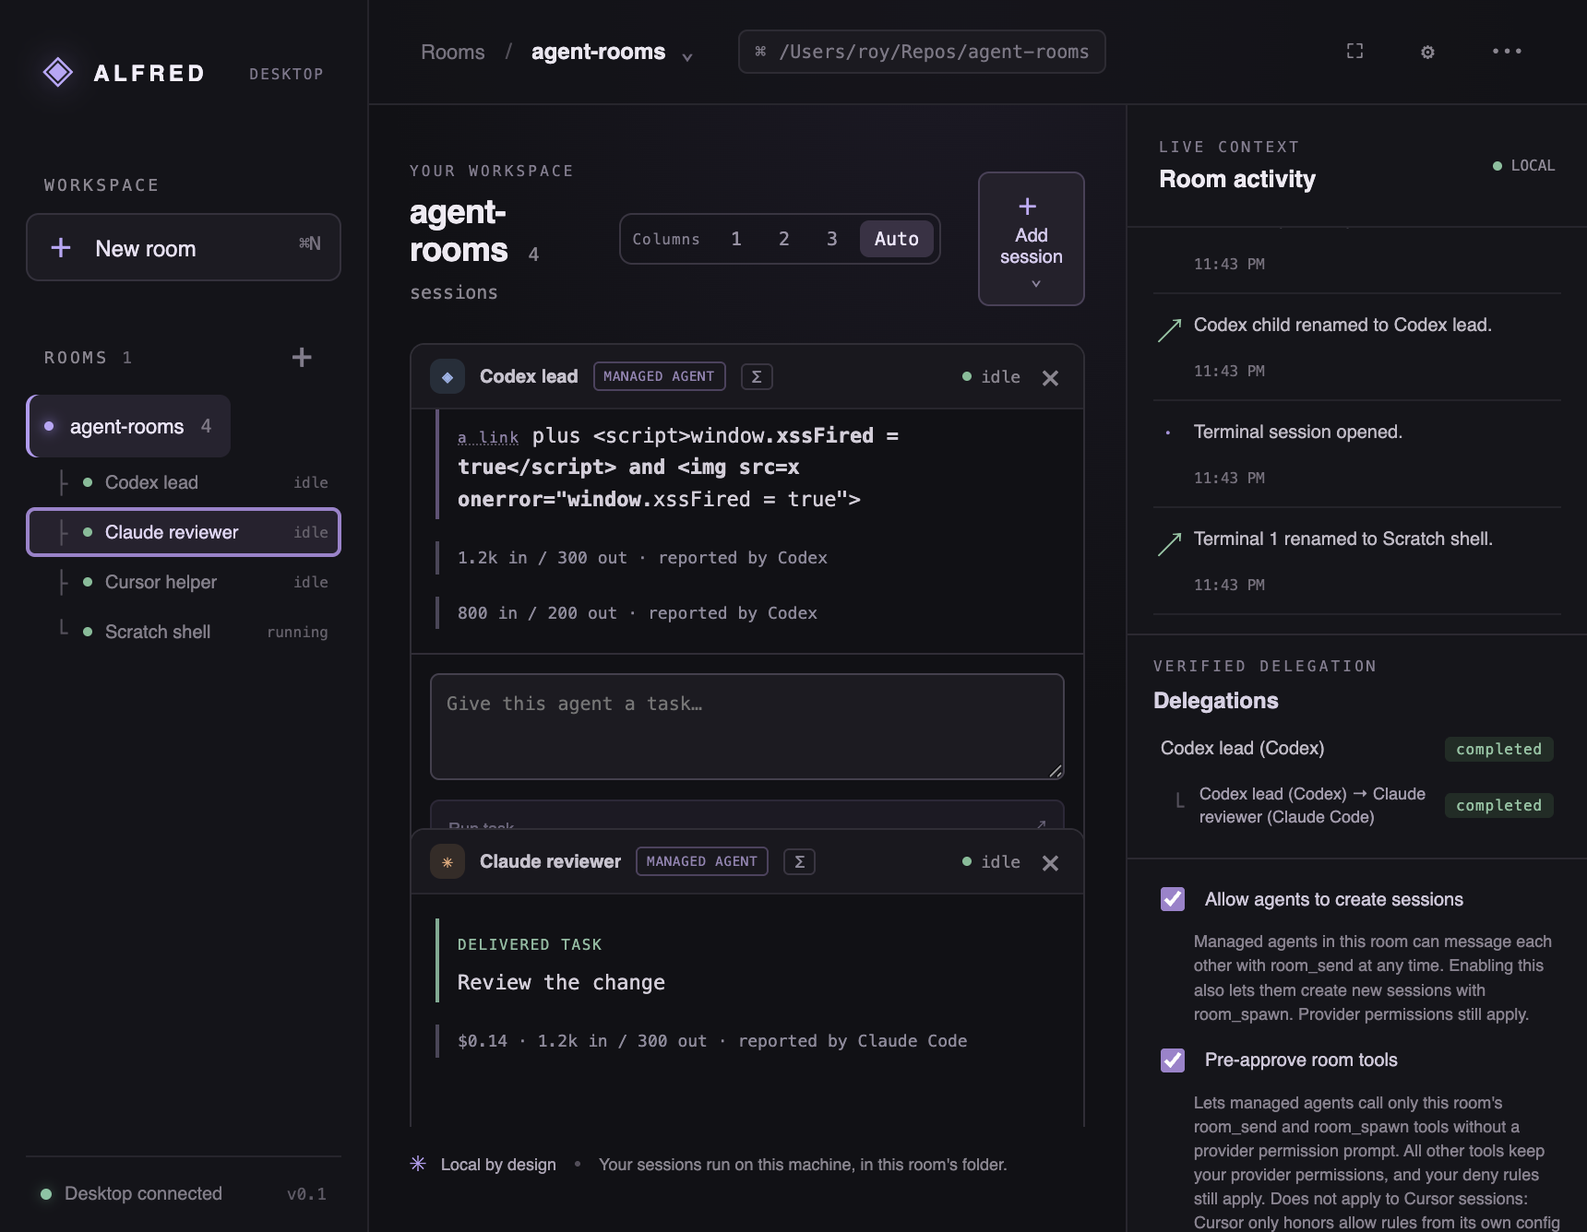
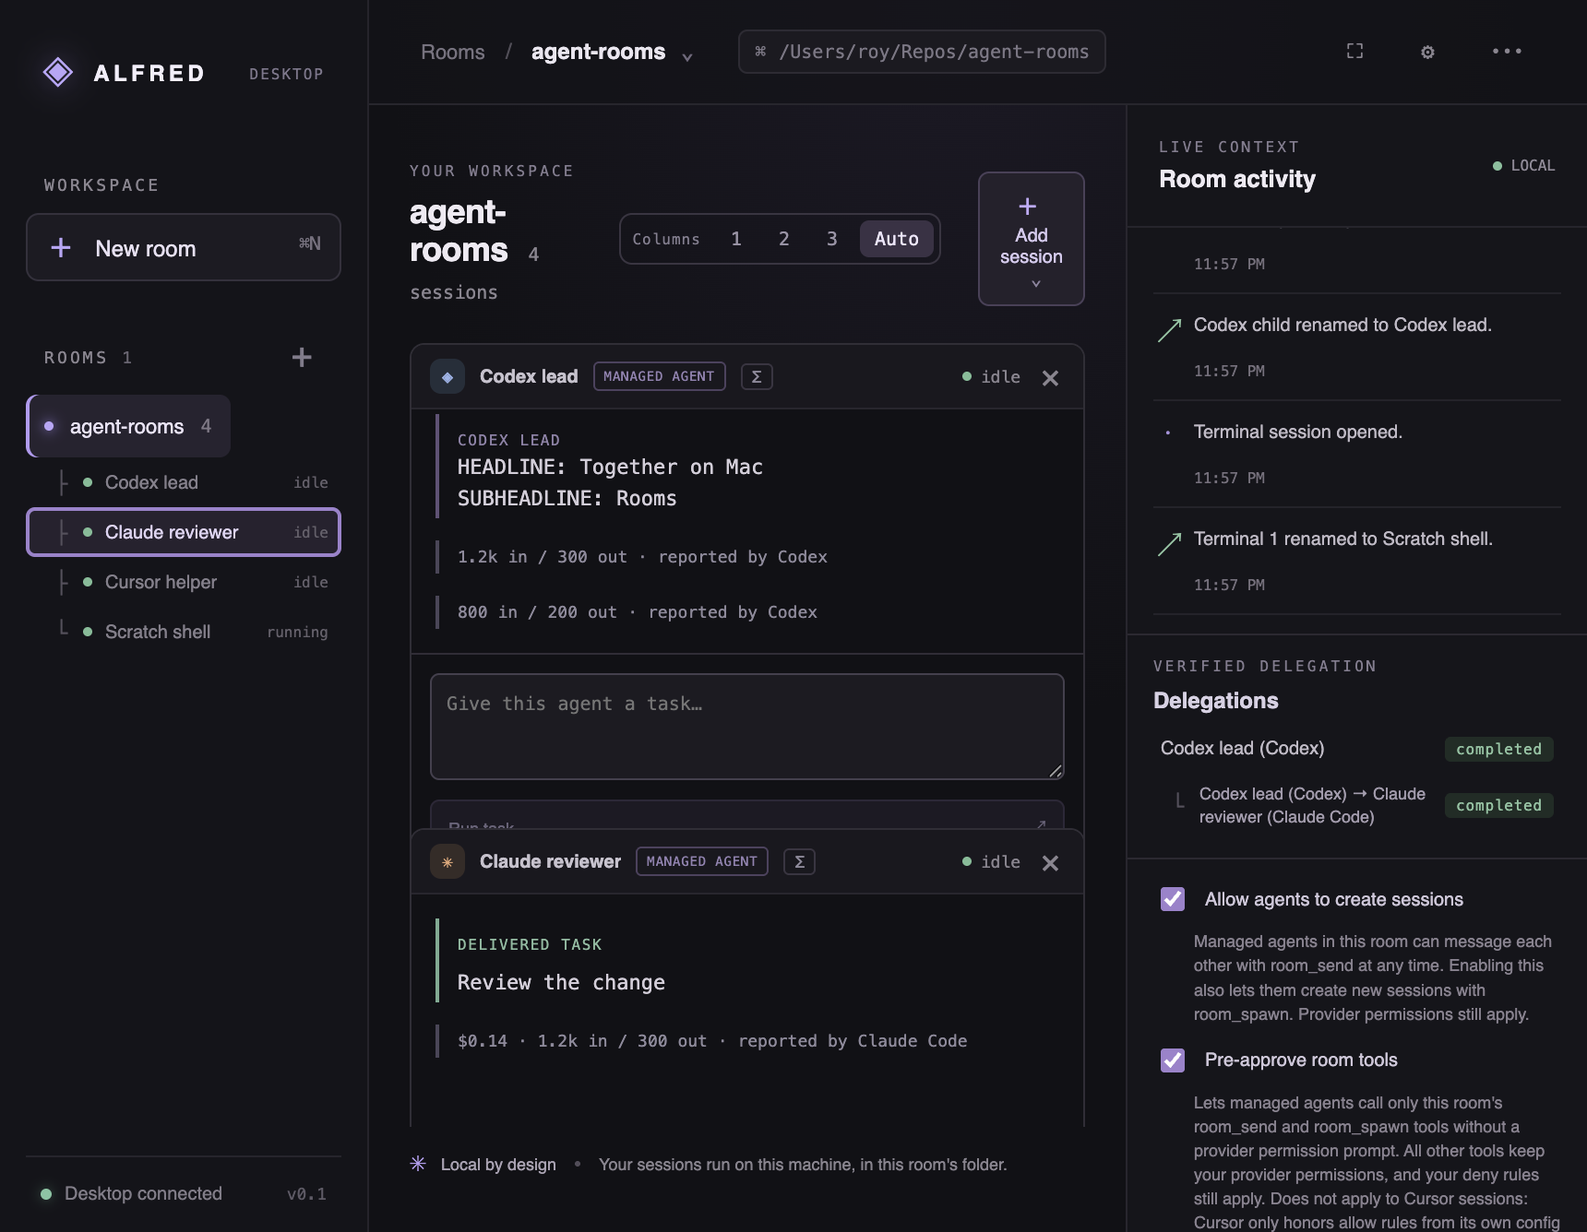
Fix issues found in final 2x Claude + 2x Cursor end-to-end build
- Markdown: keep ordered-list numbering with nested bullets; don't italicize
  intra-word underscores (room_send)
- Room Activity: keep newline-only streamed chunks
- Auto columns balance rows (4 panes -> 2x2)
- Record final e2e evidence: 3 verified room_send delegations, site built
  in one room, usage, findings (global CLAUDE.md applies to managed agents,
  sequential tool calls within one Claude turn)

Claude-Session: https://claude.ai/code/session_01BGuwhLi6mJrKy1dvGjUKGi

Changed region(s): [[0.2773, 0.3376, 0.5547, 0.4603]]

diff --git a/src/App.tsx b/src/App.tsx
@@ -530,6 +530,18 @@ function computePaneGrid(sessions: Session[], columns: number) {
 // is what actually gets rendered — the room's `columns` setting is only ever
 // a ceiling, never a promise, so a narrow window degrades to fewer columns
 // instead of ever overlapping panes.
+// Auto layout: the CSS auto-fit grid alone leaves an orphan row (4 panes at a
+// width that fits 3 render as 3 + 1 with a large empty area). Pick the number
+// of columns that fits (same 290px minimum and 13px gap as .terminal-stack),
+// then balance rows so every row is as full as possible: 4 -> 2x2, 5 -> 3+2.
+const AUTO_PANE_MIN_PX = 290;
+const AUTO_PANE_GAP_PX = 13;
+export function balancedAutoColumns(containerWidth: number, panes: number): number {
+  if (containerWidth <= 0 || panes <= 0) return 0;
+  const fit = Math.max(1, Math.floor((containerWidth + AUTO_PANE_GAP_PX) / (AUTO_PANE_MIN_PX + AUTO_PANE_GAP_PX)));
+  const cols = Math.min(fit, panes);
+  return Math.ceil(panes / Math.ceil(panes / cols));
+}
 function maxFittingColumns(containerWidth: number, columns: number): number {
   if (containerWidth <= 0) return columns;
   for (let n = columns; n > 1; n--) {
@@ -546,7 +558,14 @@ type MdBlock =
   | { type: 'heading'; level: number; text: string }
   | { type: 'paragraph'; text: string }
   | { type: 'code'; text: string }
-  | { type: 'list'; ordered: boolean; items: string[] };
+  | { type: 'list'; ordered: boolean; start: number; items: MdListItem[] };
+// One level of nesting: an item indented deeper than its list's first item (for
+// example "   - **Problem:** …" under "5. **Finding**") belongs to the previous
+// item as a sub-list, instead of becoming a sibling that inherits the parent's
+// numbering.
+type MdListItem = { text: string; sub?: { ordered: boolean; start: number; items: string[] } };
+const mdListLine = /^(\s*)([-*]|\d+[.)])\s+(.*)$/;
+const mdListStart = (marker: string) => (/^\d/.test(marker) ? parseInt(marker, 10) : 1);
 function parseMarkdownBlocks(text: string): MdBlock[] {
   const lines = text.split(/\r\n|\r|\n/);
   const blocks: MdBlock[] = [];
@@ -582,19 +601,28 @@ function parseMarkdownBlocks(text: string): MdBlock[] {
       i++;
       continue;
     }
-    const listItem = line.match(/^\s*([-*]|\d+[.)])\s+(.*)$/);
+    const listItem = line.match(mdListLine);
     if (listItem) {
       flushPara();
-      const ordered = /\d/.test(listItem[1]);
-      const items = [listItem[2]];
+      const indent = listItem[1].length;
+      const ordered = /\d/.test(listItem[2]);
+      const items: MdListItem[] = [{ text: listItem[3] }];
       i++;
       while (i < lines.length) {
-        const m = lines[i].match(/^\s*([-*]|\d+[.)])\s+(.*)$/);
+        const m = lines[i].match(mdListLine);
         if (!m) break;
-        items.push(m[2]);
+        const itemOrdered = /\d/.test(m[2]);
+        if (m[1].length > indent) {
+          const parent = items[items.length - 1];
+          if (!parent.sub) parent.sub = { ordered: itemOrdered, start: mdListStart(m[2]), items: [] };
+          parent.sub.items.push(m[3]);
+        } else if (itemOrdered === ordered) items.push({ text: m[3] });
+        else break;
         i++;
       }
-      blocks.push({ type: 'list', ordered, items });
+      // `start` keeps numbering right when a model separates "5." and "6." with blank
+      // lines or nested bullets (each run is its own list).
+      blocks.push({ type: 'list', ordered, start: mdListStart(listItem[2]), items });
       continue;
     }
     if (line.trim() === '') {
@@ -609,7 +637,9 @@ function parseMarkdownBlocks(text: string): MdBlock[] {
   return blocks;
 }
 const mdInlineRegex =
-  /`([^`\n]+)`|\*\*([^*\n]+)\*\*|__([^_\n]+)__|\*([^*\n]+)\*|_([^_\n]+)_|\[([^\]\n]+)\]\(([^)\s]+)\)/g;
+  // Underscore emphasis only at word boundaries (as in CommonMark): identifiers such as
+  // room_send or snake_case_name must never turn into italics.
+  /`([^`\n]+)`|\*\*([^*\n]+)\*\*|(?<![\p{L}\p{N}_])__([^_\n]+)__(?![\p{L}\p{N}_])|\*([^*\n]+)\*|(?<![\p{L}\p{N}_])_([^_\n]+)_(?![\p{L}\p{N}_])|\[([^\]\n]+)\]\(([^)\s]+)\)/gu;
 function renderMarkdownInline(text: string, keyPrefix: string) {
   const nodes: (string | JSX.Element)[] = [];
   mdInlineRegex.lastIndex = 0;
@@ -658,11 +688,27 @@ function MarkdownText({ text }: { text: string }) {
             </pre>
           );
         if (block.type === 'list') {
-          const items = block.items.map((item, j) => (
-            <li key={key + '-' + j}>{renderMarkdownInline(item, key + '-' + j)}</li>
-          ));
+          const items = block.items.map((item, j) => {
+            const itemKey = key + '-' + j;
+            const subItems = item.sub?.items.map((sub, k) => (
+              <li key={itemKey + '-' + k}>{renderMarkdownInline(sub, itemKey + '-' + k)}</li>
+            ));
+            return (
+              <li key={itemKey}>
+                {renderMarkdownInline(item.text, itemKey)}
+                {item.sub &&
+                  (item.sub.ordered ? (
+                    <ol className="md-list md-sublist" start={item.sub.start}>
+                      {subItems}
+                    </ol>
+                  ) : (
+                    <ul className="md-list md-sublist">{subItems}</ul>
+                  ))}
+              </li>
+            );
+          });
           return block.ordered ? (
-            <ol className="md-list" key={key}>
+            <ol className="md-list" key={key} start={block.start}>
               {items}
             </ol>
           ) : (
@@ -1406,11 +1452,14 @@ export default function App() {
   );
   const appendOutputActivity = useCallback((event: AgentEvent, name: string) => {
     const output = event.text;
-    if (!output?.trim()) return;
+    if (!output) return;
     const key = event.sessionId + ':' + event.taskId;
     setActivityByRoom((prev) => {
       const existing = prev[event.roomId] || [];
       const last = existing.at(-1);
+      // A whitespace-only chunk (providers often stream a lone "\n") still separates the
+      // words around it; it only must not start a new activity item on its own.
+      if (!output.trim() && last?.streamKey !== key) return prev;
       if (last?.streamKey === key)
         return {
           ...prev,
@@ -2554,6 +2603,8 @@ export default function App() {
     !focusMode && current && current.columns !== 'auto'
       ? maxFittingColumns(stackWidth, current.columns)
       : null;
+  const autoColumns =
+    current && !effectiveColumns ? balancedAutoColumns(stackWidth, current.sessions.length) : 0;
   const currentPaneGrid =
     current && effectiveColumns ? computePaneGrid(current.sessions, effectiveColumns) : null;
   const effectiveColumnWeights =
@@ -2988,7 +3039,9 @@ export default function App() {
                               effectiveColumns,
                             ),
                           }
-                        : {}),
+                        : autoColumns
+                          ? { gridTemplateColumns: `repeat(${autoColumns}, minmax(0, 1fr))` }
+                          : {}),
                     }}
                   >
                     {rooms.flatMap((room) =>

diff --git a/src/styles.css b/src/styles.css
@@ -1534,6 +1534,9 @@ button {
   margin: 2px 0;
   overflow-wrap: anywhere;
 }
+.md-sublist {
+  margin: 2px 0 4px;
+}
 .md-code {
   background: #221f29;
   border: 1px solid #3a3542;

diff --git a/doc/adapters.md b/doc/adapters.md
@@ -149,3 +149,47 @@ The owner authorized a visible end-to-end run in the real Alfred app, with a bud
   - Tests: a Claude runner unit test, an updated Cursor delta expectation, and managed smoke assertions for no truncation, feed pinned to bottom, feed height ≥ 200px at 860×700, and no blank gap after a warning.
 - **Not addressed.** Agent output is shown as plain text, so Markdown such as `**…**` appears literally. The result text from Cursor still concatenates segments; it is passed through unchanged.
 - **Model turns used.** Claude: 3 tasks, one per run. Each task included one `room_send` tool call. Cursor: 3 delegated tasks. Cost was not captured in this run: at the time, the runner did not surface the provider's reported cost/usage, and none was shown in the UI. `desktop/agent-runner.cjs` and `desktop/agent-engine.cjs` now capture Claude's `total_cost_usd`/`usage`, Codex's `turn.completed.usage`, and Cursor's `result.usage` where the provider reports them, and include a `usage` field on the `task-completed` event when present (see decisions.md). This has not yet been exercised against a live run; unit tests cover the parsing (`tests/agent-engine.test.cjs`).
+
+## Final end-to-end test 2026-09-22
+
+The owner authorized a final visible run in the real app: a small multi-agent website build, with a budget of about 12 Claude and 8 Cursor turns. Codex was not used because it is rate-limited until Sep 23, 1:44 AM, so the room had 2 Claude and 2 Cursor agents. The scratch Playwright script lives outside the repo, like the live UI demo's. It launched the built app in test mode with isolated userData and drove the real renderer, the real detected CLIs (Claude Code 2.1.280, cursor-agent 2026.09.18-9a7762b), and the real `cliRunner` and `BridgeBroker`. The room folder was a fresh `git init`'d directory in the session scratchpad, outside this repo. No permission-bypass flag was passed, and no provider config was changed. Transcripts are not stored here.
+
+- **Setup, all through the UI.** Choose folder → tick "Pre-approve room tools" (Claude only, as the UI states). "Allow agents to create sessions" stayed off, since `room_spawn` was not used. Add session → Add multiple… → 2 Claude Code agents and 2 Cursor agents → Launch. The four panes were renamed inline to "Claude lead", "Claude reviewer", "Cursor designer" and "Cursor copy".
+- **Cursor workspace trust.** A native Cursor terminal pane in the room showed the trust prompt, and the script pressed `a`. No prompt was sent, so no model turn was used. The managed runner still never passes `--trust`.
+- **Scenario.** One task was typed into Claude lead's composer: build `index.html`, `styles.css` and `script.js` for an Alfred one-page site with a hero, a 5-card feature grid, and a `brew install --cask alfred` block with a Copy button and an aria-live status. Collaboration was through `room_send`, calling each agent once:
+  1. Cursor copy wrote the hero copy and feature blurbs.
+  2. Cursor designer wrote the full `styles.css` for the lead's class names.
+  3. Claude reviewer reviewed the written files for bugs and accessibility.
+  4. The lead integrated everything and applied the review.
+- **Observed, in order (local time 23:47–23:51, 251 s in total).**
+  - Claude lead `task-started`.
+  - After 16 s, `delegation` Claude lead → Cursor copy. Cursor copy completed in 8 s.
+  - `delegation` → Cursor designer. It completed in 36 s with a 3.3k-token CSS block.
+  - The lead wrote the three files.
+  - `delegation` → Claude reviewer. The reviewer read the three files and returned 10 findings plus 2 minor notes in 61 s.
+  - The lead applied all findings except one it judged harmless, then completed.
+  - The Delegations tree showed one parent with three children, going from started to completed. Every pane and the sidebar went running → idle. No `task-failed` or `permission-denied` events.
+- **Result.** The site in the room folder works. Opened in Playwright Chromium, it made no external requests and raised no console errors. Clicking Copy put `brew install --cask alfred` on the clipboard, the button showed "Copied", and the status showed "Copied to clipboard." At 375px there is no horizontal overflow.
+- **Permission findings.**
+  - Headless Claude writes were allowed under the user's `permissionMode: auto`: `Write` ×4, `Bash` ×5, `Read` ×3, with `permission_denials` empty. So no fallback where the user writes the files was needed. A user whose mode prompts for edits would see denials instead; Alfred surfaces them and never bypasses.
+  - The Cursor agents only returned text, as instructed. Cursor print mode without `--force` would only propose file changes anyway.
+  - Neither Cursor agent attempted a tool this time, so there were no denials.
+- **Behavior worth knowing.**
+  - Managed Claude sessions load the user's global `~/.claude/CLAUDE.md`. Following its "finishing a feature" rule, the lead tested the page in headless Chrome, created a branch in the room repo and committed. It then tried to push and stopped only because the room repo has no remote. It did not deploy, and asked instead. Anything a user's global instructions tell Claude to do also happens in managed sessions, within the user's permission mode.
+  - The lead wrote temporary screenshots to the system `/tmp`, outside the room folder. They were removed afterwards.
+- **Parallel `room_send`.** The lead issued both Cursor `room_send` calls in one assistant message, but Claude Code ran them one after the other: the second delegation started 3 s after the first child completed. Claude Code runs MCP tools that are not marked read-only one at a time. `room_send` must not claim `readOnlyHint`, so concurrent fan-out from one Claude turn is not available. Alfred's engine supports concurrent calls; they were not exercised by this run.
+- **Bugs found and fixed (renderer).**
+  - **Nested lists and numbering.** Reviewer findings written as `5. **Finding**` with nested `- **Problem:** …` / `- **Fix:** …` bullets rendered as one ordered list (bullets numbered 2, 3), and every block restarted at 1.
+    - Lists now honor their start number (`<ol start>`).
+    - Deeper-indented items become a nested sub-list under the previous item.
+    - Bullets no longer merge into an ordered list at the same indent.
+  - **Underscores in identifiers.** `room_send … room_send` in Cursor's copy turned into italics ("roomsend …"). Underscore emphasis now requires word boundaries, as in CommonMark.
+  - **Lost line breaks in Room Activity.** Summaries glued streamed lines together ("…together on MacSUBHEADLINE…", "```css/* Alfred"). Whitespace-only stream chunks, such as Cursor's lone `"\n"`, were dropped. They are now appended to the running activity item; they still never start a new item on their own.
+  - **Auto layout.** With 4 panes at a width that fits 3, Auto layout rendered 3 + 1 with a large empty area. Rows are now balanced (4 → 2 × 2; see decisions.md).
+  - **Tests.** Managed smoke assertions cover `<ol start>` and nested sub-lists, no emphasis inside `room_send`/`snake_case_name`, a whitespace-only chunk kept in the activity item, and balanced Auto rows for 6 panes in focus mode. The list assertion fails on the previous renderer. `npm test` (45/45), `npm run build`, `npm run test:smoke` and `npm run test:smoke:managed` pass.
+  - **Not a bug.** An early screenshot of the Add multiple dialog showed the empty-room text through it. It was captured during the dialog's 0.15 s fade-in and looks correct once settled.
+- **Model turns and reported usage.**
+  - **Claude:** 2 tasks. The lead is 1 task with about 16 assistant messages, reported $0.828 (24 input / 15,783 output tokens as reported). The reviewer is 1 task, reported $0.314 (6,329 output tokens). Total reported: $1.14.
+  - **Cursor:** 2 tasks with no cost field. Copy: 13,056 input / 247 output tokens. Designer: 13,821 input / 3,321 output tokens.
+  - **Codex:** not used.
+  - No model call was made for trust or setup. The post-fix layout check re-ran setup only, with no tasks.

diff --git a/doc/tasks.md b/doc/tasks.md
@@ -70,6 +70,8 @@ Updated 2026-09-22. Milestone 1 (local terminal foundation) is implemented and t
 
 - [x] Keyboard shortcuts, configurable in a Settings view (2026-09-22). All 20 requested actions (new room, add session, close focused session, next/prev session, focus session 1–9, next/prev room, toggle focus mode, toggle Room Activity panel, open settings, focus task input) have mac defaults in `src/App.tsx` (`DEFAULT_SHORTCUTS`, combos keyed by `KeyboardEvent.code` so a Shift-transformed symbol like `Shift+]` → `}` can never desync a binding). A single capture-phase `keydown` listener dispatches by reading the live binding map through a ref. Settings view (`SettingsPanel`, opened by ⌘, or the header gear button): lists every action with its current binding, "Change" captures the next combo, refuses duplicates and combos missing ⌘ inline, "Reset to defaults"; focus-trapped (`useFocusTrap`), `role="dialog"` + `aria-modal` + `aria-labelledby`, Esc closes. Terminal-input safety: while a terminal has DOM focus (`.terminal-host`/`.xterm-helper-textarea`), only combos containing Meta are ever handled — plain keys and Ctrl-combos (Ctrl-C, etc.) always reach the shell untouched; a fixed reserved set (⌘C/⌘V/⌘A/⌘Z/⇧⌘Z/⌘Q/⌘H/⌘M) can never be bound or swallowed anywhere. `desktop/main.cjs` now builds an explicit, minimal application `Menu` (Quit/Hide/Minimize/Undo/Redo/Cut/Copy/Paste/Select All only) with **no** Close/⌘W item — Electron's own default menu (used whenever no menu is set) binds ⌘W to closing the window, which would otherwise double-handle the renderer's "close session" shortcut. Bindings persist as a global, non-per-room `settings.shortcuts` (sibling of `rooms`), sanitized at the `rooms:save-state` boundary (`sanitizeShortcuts`/`sanitizeSettings` in `desktop/main.cjs`: only known action ids, only combo strings matching a bounded pattern). Backend tests cover the menu (no Cmd+W anywhere in the built template) and settings sanitization (unknown action ids, malformed/oversized combos, and unknown top-level settings keys are all dropped). `tests/smoke.cjs` covers, against a real shell: rebinding "New room", conflict refusal, persistence across a real restart, a Meta-combo shortcut working while a terminal has focus, and plain keys/Ctrl-C reaching the shell untouched.
 - [x] Focus mode and Add multiple (2026-09-22). Focus mode (⌘⇧F or the workspace-header button; Esc or the toggle exits) hides the sidebar and Room Activity panel and slims the header via CSS only (`.app-shell.focus-mode`) — no state is lost, everything stays mounted underneath — and always tiles the room's sessions with the existing responsive Auto grid regardless of the room's saved column count (never mutates that setting). ⌘⇧A independently toggles just the Room Activity panel. "Add multiple…" (in the Add session menu) is a focus-trapped, labelled dialog (`AddMultipleDialog`) to choose a count per provider (Terminal, plus one managed-agent row per known provider) and launch them all at once; pre-validates against the room's `maxAgents` policy and the app-wide terminal cap (`MAX_SESSIONS`, 12) with clear inline errors before launching anything, both re-enforced server-side regardless. Every launched session gets a unique auto-numbered name (e.g. "Terminal 1", "Terminal 2") computed up front from one snapshot (`launchMultiple` in `src/App.tsx`), not recomputed mid-batch, since sequential creation calls race the render cycle. `tests/managed-ui-smoke.cjs` covers, with real terminal sessions (never billable agent work): Add multiple launching N unique-named sessions, focus mode hiding the sidebar/activity panel and tiling ~6 sessions with no pane overlap, Esc exiting, and the independent Room Activity toggle. Screenshots: `final-settings.png`, `final-add-multiple.png`, `final-focus-mode.png` (6 tiled terminal sessions).
+- [x] Final end-to-end test (2026-09-22, verified live). 2 Claude and 2 Cursor managed agents, set up through Add multiple and inline renames, built a small Alfred one-page site in a scratch room outside the repo using `room_send`. Three verified delegations, all completed. The site works: the copy-to-clipboard button was checked in Chromium. Four renderer bugs found in the run are fixed with managed smoke coverage: nested lists and `<ol start>` numbering, `_` emphasis inside identifiers, whitespace chunks dropped from Room Activity summaries, and 3 + 1 orphan rows in Auto layout. Findings recorded in adapters.md: managed Claude loads the user's global CLAUDE.md, which led it to commit in the room repo, and Claude Code runs parallel `room_send` calls one at a time.
+- [ ] Concurrent `room_send` fan-out from a single Claude turn is not available, because Claude Code runs MCP tools that are not marked read-only one at a time. Engine-side concurrency is covered only by unit tests.
 
 ## Verification commands
 

diff --git a/doc/decisions.md b/doc/decisions.md
@@ -92,6 +92,10 @@ Restart recovery needed some record of what happened before quitting, without st
 
 On restart, all sessions are shown as `ended` (their persisted `finalState`), never as `running`/`idle`, since no PTY or provider process actually survives a restart. Managed entries with a `providerSessionId` get a **Resume** action (creates a new engine session seeded with that id — the next task uses the provider's own `--resume`/equivalent). Terminal entries get a **Reopen** action (a new shell in the same working directory; no scrollback/transcript is restored, since none was ever stored). A **Clear history** action per room removes both fields for that room.
 
+## Auto pane layout balances rows (2026-09-22)
+
+Found in the final end-to-end test: with four managed panes at a width that fits three, the CSS `auto-fit` grid rendered 3 + 1, leaving a large empty area. In Auto mode (normal and focus mode) the renderer now computes the column count itself (`balancedAutoColumns` in `src/App.tsx`). It finds how many 290px columns fit (the same minimum and 13px gap as `.terminal-stack`), then balances the rows: 4 panes → 2 × 2, 5 → 3 + 2, 6 → 3 + 3. This is a render-time choice only. It never changes the room's saved `columns` setting, and explicit 1/2/3 column layouts are unchanged.
+
 ## Open questions
 
 - Which officially documented Claude Code and Codex interfaces, if any, provide stable structured session or delegation control?
